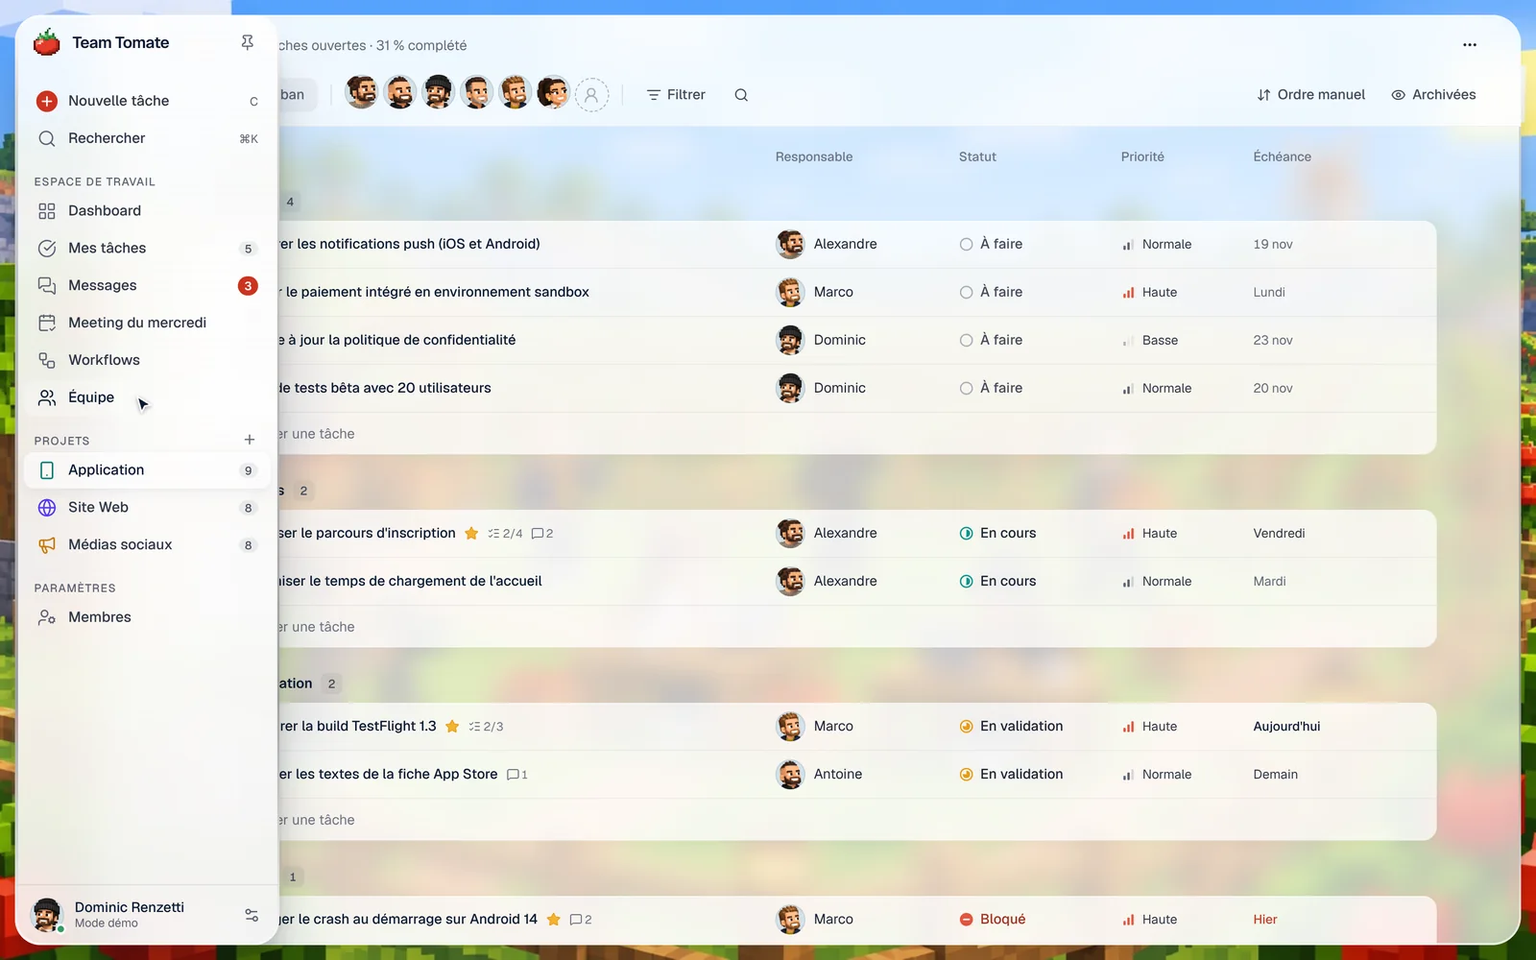
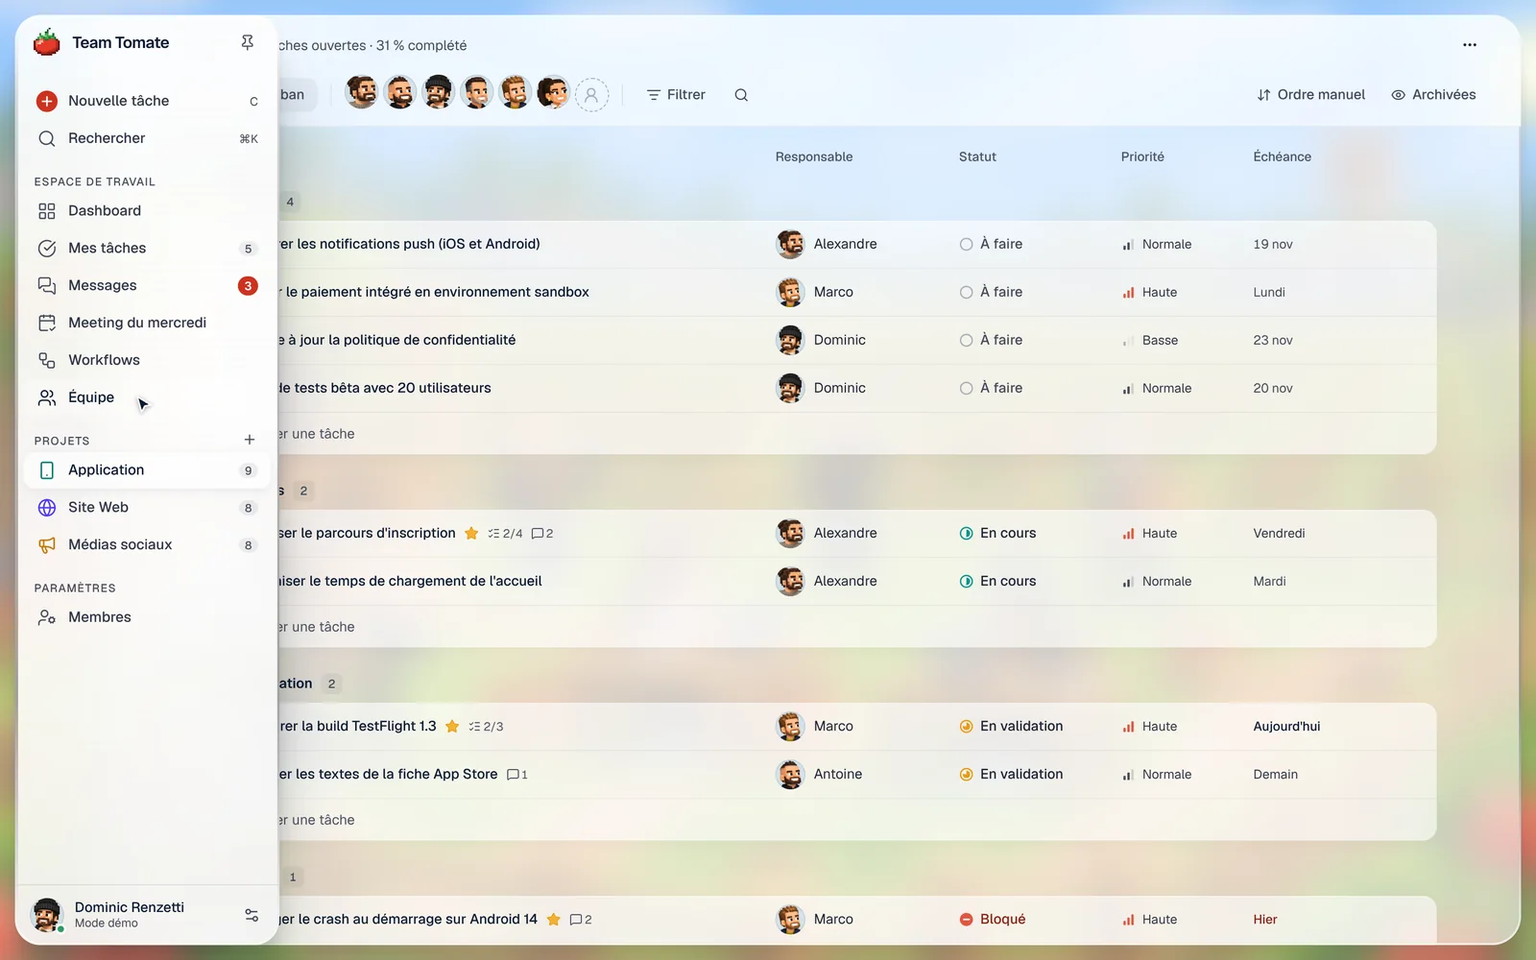
Docs: the frosted picture, the clear glass, ink on glass, measured contrast
The design document describes where the frost now is (on the picture: a blur
and a white veil that move together), the face shared by sheets and tiles, the
deeper inks inside the glass scope, the bento aligned on the navigation, and
the contrast as measured on the eight screens. The README follows, with the
42 scenarios. Screenshots retaken from the new build.

Claude-Session: https://claude.ai/code/session_01FogaosSJpqDW3pFqCh4GHN

Changed region(s): [[0.0, 0.0, 1.0, 1.0], [0.8438, 0.155, 0.9062, 0.217]]

diff --git a/docs/DESIGN.md b/docs/DESIGN.md
@@ -38,7 +38,7 @@ Au repos, la navigation est un rail d'icônes : le contenu a toute la place. On 
 
 ### Dashboard — « où en est-on ? »
 
-Un bento de tuiles de verre posées **directement sur l'image** : pas de feuille derrière elles, jamais de verre sur du verre. Chaque tuile est le verre (son anneau, son flou, son ombre), l'image se voit nette entre les tuiles, et le bento occupe toute la zone à côté de la navigation. La composition vient du tableau de bord de référence : la salutation sur toute la largeur, une tuile étroite et une large, une large et une étroite, puis une rangée de tuiles égales. Les colonnes suivent la largeur disponible, pas celle de l'écran.
+Un bento de tuiles de verre posées **directement sur l'image** : pas de feuille derrière elles, jamais de verre sur du verre. Chaque tuile est le verre (son anneau, sa face claire, son ombre) ; la photo, givrée, se voit entre les tuiles comme à travers elles. Le bento occupe toute la zone à côté de la navigation et s'aligne sur elle : même haut, même bas, et le même écart de 14 px que la fenêtre des autres écrans. Sur un écran haut, la première rangée prend la place qui reste (un graphique plus haut, davantage de mes tâches) ; sur un écran plus court, le bento défile sous une navigation qui ne bouge pas. La composition vient du tableau de bord de référence : la salutation sur toute la largeur, une tuile étroite et une large, une large et une étroite, puis une rangée de tuiles égales. Les colonnes suivent la largeur disponible, pas celle de l'écran.
 
 Le bento est régulier : les tuiles d'une rangée ont la même hauteur, les rangées se suivent sans trou, et aucune tuile n'est à moitié vide. Une tuile remplit la place qu'elle a avec son propre contenu : la liste des priorités donne sa hauteur à sa rangée, et les listes voisines montrent autant de lignes entières qu'il en tient (`.gw-fit`). Les lignes qui n'ont pas la place sont aussi hors du parcours clavier et des lecteurs d'écran.
 
@@ -167,7 +167,7 @@ Références : Linear pour la sobriété et les interactions, Things pour le cal
 
 ### Le parti pris
 
-Du verre sur un paysage, et un contenu très sobre posé dessus. L'idée vient du tableau de bord « verre ajustable » qui a servi de référence (une image en fond, des feuilles et des tuiles translucides, des réglages) ; la matière, elle, est le **verre poli** de Koloc Cloud : un anneau métallique, une face translucide, une ombre en huit couches. Les paysages sont à nous : **la ferme**, l'équipe au travail dans son champ de tomates, et **le yacht**, la même équipe au coucher du soleil, en blocs façon jeu de construction. Le contenu reste du texte, des filets et de l'espace. L'autre fantaisie est la tomate en pixel art : elle est le logo, elle fait un salto au chargement, elle mûrit à côté des priorités de la semaine, et il en pleut quelques-unes quand une tâche se termine.
+Du verre sur un paysage, et un contenu très sobre posé dessus. L'idée vient du tableau de bord « verre ajustable » qui a servi de référence (une image en fond, des feuilles et des tuiles translucides, des réglages) ; la matière, elle, est le **verre poli** de Koloc Cloud : un anneau métallique, une face translucide, une ombre en huit couches. Le verre est clair ; c'est la photo, derrière, qui est givrée. Les paysages sont à nous : **la ferme**, l'équipe au travail dans son champ de tomates, et **le yacht**, la même équipe au coucher du soleil, en blocs façon jeu de construction. Le contenu reste du texte, des filets et de l'espace. L'autre fantaisie est la tomate en pixel art : elle est le logo, elle fait un salto au chargement, elle mûrit à côté des priorités de la semaine, et il en pleut quelques-unes quand une tâche se termine.
 
 | Élément de marque | Où | Règle |
 |---|---|---|
@@ -181,20 +181,24 @@ Du verre sur un paysage, et un contenu très sobre posé dessus. L'idée vient d
 
 | Couche | Classe | Rôle |
 |---|---|---|
-| **Scène** | `GlassBackdrop` | La ferme (ou le yacht) en plein écran. Elle se voit nette à l'arrivée et tout autour des feuilles, et en formes douces à travers elles. |
-| **Feuilles** | `.gw-glass` | La navigation et, sur tous les écrans sauf le dashboard, la fenêtre principale, en verre poli : un **anneau** métallique de 2,5 px (un dégradé vertical, blanc en haut pour la lumière, foncé aux trois quarts pour l'épaisseur, blanc en bas pour le rebond, évidé en son centre par un masque), une **face** translucide à 72 % avec une très légère diagonale, un flou de 12 px, et une **ombre** en huit couches dont le flou double presque à chaque cran. Coins de 24 et 27 px. |
-| **Tuiles** | `.gw-panel` | Deux cas, pour ne jamais poser du verre sur du verre. **Sur le dashboard**, il n'y a pas de fenêtre : chaque tuile est le verre, posée sur l'image, avec le même anneau (2 px), son propre flou, l'ombre en huit couches et une face aussi pleine que l'étaient la fenêtre et la tuile réunies (87 % par défaut). **Dans une fenêtre** (messages, paramètres), une tuile n'est qu'une zone de la feuille : une face un peu plus pleine, une arête éclairée, ni anneau ni flou propre. Coins de 17 px. |
+| **Scène** | `GlassBackdrop`, `.gw-scene` | La ferme (ou le yacht) en plein écran. Nette tant que le préchargeur est là, et sur l'écran de connexion. **Givrée** dès que l'application arrive : floutée (18 px), un peu plus saturée, sous un voile blanc de 40 %. C'est elle qui porte le givre, pas le verre. |
+| **Feuilles** | `.gw-glass` | La navigation et, sur tous les écrans sauf le dashboard, la fenêtre principale, en verre poli : un **anneau** métallique de 2,5 px (un dégradé vertical, blanc en haut pour la lumière, foncé aux trois quarts pour l'épaisseur, blanc en bas pour le rebond, évidé en son centre par un masque), une **face** translucide à 58 % avec une très légère diagonale, sans flou propre (on voit à travers elle la même photo givrée qu'autour), et une **ombre** en huit couches dont le flou double presque à chaque cran. Coins de 24 et 27 px. |
+| **Tuiles** | `.gw-panel` | Deux cas, pour ne jamais poser du verre sur du verre. **Sur le dashboard**, il n'y a pas de fenêtre : chaque tuile est le verre, posée sur l'image, avec le même anneau (2 px), la même face que les feuilles (58 % par défaut) et l'ombre en huit couches. **Dans une fenêtre** (messages, paramètres), une tuile n'est qu'une zone de la feuille : une face un peu plus pleine, une arête éclairée, une ombre à peine marquée, pas d'anneau. Coins de 17 px. |
 | **Panneaux denses** | `.card-surface` | Tableaux, listes du meeting, colonnes du kanban : la même tuile, un peu plus remplie pour que le texte dense reste lisible. |
 | **En-tête de page** | `.glass` | Colle en haut de la fenêtre et floute ce qui défile dessous. |
 | **Sombre** | `.glass-dark` | Réservé à la barre du meeting en direct : le sombre veut dire « en direct ». |
 
-Tout dérive de cinq variables (`--gw-blur`, `--gw-opacity`, `--gw-saturation`, `--gw-edge`, `--gw-tint`). « Ajuster le verre » — sur le dashboard et en bas de la navigation — les règle : la scène (la ferme ou le yacht, les deux images de l'équipe), quatre préréglages (**Clair** 8 px / 12 %, **Givré** 22 px / 30 %, **Poli** 12 px / 72 %, le verre de Koloc Cloud et l'aspect par défaut, **Opaque** 32 px / 86 %) et des réglages fins repliés. Le curseur « reflet des bords » dose l'anneau. Choisir une scène remet le verre poli ; les préréglages et les curseurs ajustent à partir de là. Le choix est propre à chaque navigateur.
+Tout dérive de cinq variables (`--gw-blur`, `--gw-opacity`, `--gw-saturation`, `--gw-edge`, `--gw-tint`) et d'une sixième qui s'en déduit, `--gw-scene-veil`, le voile de la photo. « Ajuster le verre » — sur le dashboard et en bas de la navigation — les règle : la scène (la ferme ou le yacht, les deux images de l'équipe), quatre préréglages (**Clair** : givre 25 %, verre 34 % ; **Poli** : 45 % et 50 %, l'aspect par défaut ; **Givré** : 70 % et 64 % ; **Opaque** : 80 % et 86 %) et des réglages fins repliés : givre de la photo, opacité du verre, saturation, reflet des bords (il dose l'anneau), teinte. Choisir une scène lui donne le givre qui lui convient (le yacht, plus sombre que les champs, vient avec un verre à 56 %) ; les préréglages et les curseurs ajustent à partir de là. Le choix est propre à chaque navigateur.
 
-La recette vient de `ui/verre.css` de Koloc Cloud, portée sur ces variables. Là-bas le verre est posé sur une page grise et unie ; ici il est posé sur une image chargée, d'où une face un peu plus blanche et un flou réglé pour que l'image devienne des formes douces sans disparaître. Quand la navigation s'ouvre par-dessus la page, elle prend la variante dense de la même matière (90 %, flou de 22 px).
+**Givrer la photo est un seul geste** : le flou (jusqu'à 40 px) et le voile blanc montent ensemble (`sceneVeil`, dans `lib/glass.ts` : rien quand la photo est nette, 40 % au réglage par défaut, 50 % au plus). Le voile fait le travail que faisait un verre laiteux : il relève les parties sombres de la photo, et le verre posé dessus peut rester clair.
+
+La recette vient de `ui/verre.css` de Koloc Cloud, portée sur ces variables. Là-bas le verre est posé sur une page grise et unie ; ici il est posé sur une photo chargée. Plutôt que d'épaissir le verre jusqu'à le rendre laiteux, c'est la photo qu'on givre. Quand la navigation s'ouvre par-dessus la page, elle prend la variante dense de la même matière (90 %, flou de 22 px) : c'est, avec l'en-tête de page, la seule surface qui floute ce qui est derrière elle.
+
+**Encre sur verre.** Les gris ont été dessinés pour du papier. Sur un verre clair posé sur une photo, ils sont ramenés à un ton plus profond à l'intérieur de `.gw-scope` : `navy-500` et le texte atténué deviennent `navy-600`, `navy-400` s'en approche, et le rouge des retards comme le vert de « En ligne » passent à leur cran foncé. Les menus et les dialogues sont en papier, hors de cette portée : ils gardent les gris d'origine.
 
 L'en-tête de page garde toujours au moins 18 px de flou, même quand le reste du verre est clair : du texte défile dessous.
 
-Règle technique : deux surfaces floutées ne s'emboîtent jamais — un flou imbriqué est ignoré par Chrome, et un flou ne survit pas non plus à un parent en fondu. Le givre de la fenêtre est donc un calque à part, placé derrière la zone de défilement ; un écran demande à la coquille une fenêtre nue (`ui.setBareWindow`, ce que fait le dashboard) quand ses tuiles portent elles-mêmes le verre, et la zone de défilement va alors jusqu'aux bords de l'écran pour que les tuiles en sortent au lieu d'être coupées en plein vol. Autre règle : la face d'une surface est calculée sur la surface elle-même (une variable CSS est résolue là où elle est déclarée), et son opacité est une propriété enregistrée (`@property --verre-alpha`), ce qui lui permet de fondre d'une valeur à l'autre.
+Règle technique : deux surfaces qui floutent ce qui est derrière elles ne s'emboîtent jamais — un flou imbriqué est ignoré par Chrome, et un flou ne survit pas non plus à un parent en fondu. La feuille de la fenêtre est donc un calque à part, placé derrière la zone de défilement, pour que l'en-tête de page puisse flouter ce qui défile sous lui ; un écran demande à la coquille une fenêtre nue (`ui.setBareWindow`, ce que fait le dashboard) quand ses tuiles portent elles-mêmes le verre, et la zone de défilement va alors jusqu'aux bords de l'écran pour que les tuiles en sortent au lieu d'être coupées en plein vol. Autre règle : la face d'une surface est calculée sur la surface elle-même (une variable CSS est résolue là où elle est déclarée), et son opacité est une propriété enregistrée (`@property --verre-alpha`), ce qui lui permet de fondre d'une valeur à l'autre.
 
 ![Ajuster le verre](screenshots/reglage-verre.webp)
 
@@ -203,7 +207,7 @@ Règle technique : deux surfaces floutées ne s'emboîtent jamais — un flou im
 | Rôle | Jeton | Valeur | Usage |
 |---|---|---|---|
 | Encre | `navy-900` | `#0D1B33` | Texte |
-| Gris | `navy-300` à `navy-600` | — | Texte secondaire, icônes, bordures. Peu saturés : le texte secondaire est gris, pas bleu. |
+| Gris | `navy-300` à `navy-600` | — | Texte secondaire, icônes, bordures. Peu saturés : le texte secondaire est gris, pas bleu. Sur le verre, le texte secondaire est en `navy-600` (voir « Encre sur verre »). |
 | Papier | `--background` | `#F2F0EB` | Sous les écrans d'erreur, et là où le flou n'est pas pris en charge |
 | Teal | `teal-500` | `#12948C` | L'avancement : la courbe des tâches terminées et les barres des projets, sur le dashboard |
 | Tomate | `tomato-600` | `#CC3320` | Le **bouton principal**, partout ; le repère « Nouvelle tâche » de la navigation ; la pastille des priorités de la semaine |
@@ -246,7 +250,7 @@ Geist Sans. Chiffres tabulaires pour les compteurs et les dates. Une échelle co
 - **Défilement** : seule la fenêtre principale défile.
 - **Mouvement** : les tuiles se posent l'une après l'autre (elles montent de 12 px et deviennent nettes, 480 ms, 45 ms d'écart) ; la coche et l'étoile « rebondissent » une fois ; la carte glissée se soulève ; un message se pose dans le fil. Tout est neutralisé avec `prefers-reduced-motion`.
 - **Averse de tomates** (`app/tomato-rain.tsx`) : une tâche terminée fait tomber de huit à dix-huit tomates du logo, selon la largeur de l'écran. La largeur est découpée en tranches et chaque tomate tombe dans la sienne : jamais d'amas. Trois tailles (20, 28, 36 px), les petites plus lentes, une légère dérive et une rotation. Elles ne prennent aucun clic, et jusqu'à trois averses se superposent quand on enchaîne.
-- **Arrivée et préchargeur** : à l'ouverture, la scène est seule à l'écran, nette ; ni navigation ni fenêtre. Par-dessus, une petite plaque de verre givré, haut dans le ciel pour ne cacher personne : la tomate y tombe, s'écrase, fait un salto (elle tourne autour d'elle-même, pas autour de sa base), puis alterne petit saut et salto tant que ça charge ; les sauts sont rythmés comme un vrai lancer (vite au départ, lent en haut). Elle reste au moins 3,25 s — la chute et deux tours de saut et de salto : le temps de regarder l'image. Puis la plaque s'en va, l'image reste, la navigation apparaît en fondu (500 ms) et les tuiles se posent l'une après l'autre. Tout est mesuré en « pixels de tomate » (7 px, 6 px sur téléphone), en CSS pur.
+- **Arrivée et préchargeur** : à l'ouverture, la scène est seule à l'écran, nette ; ni navigation ni fenêtre. Par-dessus, une petite plaque de verre givré, haut dans le ciel pour ne cacher personne : la tomate y tombe, s'écrase, fait un salto (elle tourne autour d'elle-même, pas autour de sa base), puis alterne petit saut et salto tant que ça charge ; les sauts sont rythmés comme un vrai lancer (vite au départ, lent en haut). Elle reste au moins 3,25 s — la chute et deux tours de saut et de salto : le temps de regarder l'image. Puis la plaque s'en va, l'image reste et se givre (le flou et le voile arrivent en 900 ms), la navigation apparaît en fondu (500 ms) et les tuiles se posent l'une après l'autre. Tout est mesuré en « pixels de tomate » (7 px, 6 px sur téléphone), en CSS pur.
 
 ### Composants
 
@@ -283,4 +287,4 @@ Plusieurs briques viennent de composants que l'équipe a choisis comme référen
 
 ### Accessibilité
 
-Navigation complète au clavier, focus visible (anneau teal), libellés pour les boutons-icônes, zones tactiles confortables sur mobile, états jamais portés par la couleur seule (glyphe + libellé). Le bouton de menu annonce son état (`aria-expanded`). La navigation ne dépend pas du survol : au clavier, le rail se parcourt tel quel (chaque entrée garde son nom, et son infobulle au focus) et la tomate, qui est alors un bouton, l'épingle ouverte ; sur un écran tactile, toucher la tomate fait de même. Le fil des messages est une région `log`, la saisie et chaque bouton ont un libellé, et l'averse de tomates est ignorée des lecteurs d'écran. Avec « moins de mouvement », la carte de connexion ne s'incline plus et ses lumières s'éteignent, la pastille de navigation et les infobulles apparaissent sans ressort, la navigation s'ouvre sans glisser, et aucune tomate ne tombe. L'avancement, le graphique et la tomate qui mûrit ont un équivalent textuel. Sur du verre, le contraste dépend de l'image derrière ; il a été mesuré sur des captures, avec le verre par défaut. Sur la ferme, tout le texte dépasse le seuil AA : 13:1 et plus pour le texte principal, environ 7:1 pour le secondaire, et 4,7:1 au plus bas pour le gris le plus pâle (métadonnées, heures). Sur le yacht, plus sombre, il en va de même dans les tuiles (4,6:1 au plus bas) ; posé directement sur la fenêtre, le gris le plus pâle peut descendre vers 3,8:1 au-dessus des zones les plus sombres. Le préréglage « Clair » passe sous le seuil pour le texte secondaire. « Opaque » garantit le contraste en toutes circonstances.
+Navigation complète au clavier, focus visible (anneau teal), libellés pour les boutons-icônes, zones tactiles confortables sur mobile, états jamais portés par la couleur seule (glyphe + libellé). Le bouton de menu annonce son état (`aria-expanded`). La navigation ne dépend pas du survol : au clavier, le rail se parcourt tel quel (chaque entrée garde son nom, et son infobulle au focus) et la tomate, qui est alors un bouton, l'épingle ouverte ; sur un écran tactile, toucher la tomate fait de même. Le fil des messages est une région `log`, la saisie et chaque bouton ont un libellé, et l'averse de tomates est ignorée des lecteurs d'écran. Avec « moins de mouvement », la carte de connexion ne s'incline plus et ses lumières s'éteignent, la pastille de navigation et les infobulles apparaissent sans ressort, la navigation s'ouvre sans glisser, et aucune tomate ne tombe. L'avancement, le graphique et la tomate qui mûrit ont un équivalent textuel. Sur du verre, le contraste dépend de l'image derrière : il est donc mesuré, pas déduit des couleurs du thème. Chaque morceau de texte est comparé aux pixels réellement derrière lui, sur une capture où le texte est rendu transparent, et c'est le pire endroit du mot qui compte (le 5e centile de ses pixels), pas sa moyenne. Avec les réglages par défaut, sur les huit écrans (449 morceaux de texte par scène), tout dépasse le seuil AA de 4,5:1. Sur la ferme : 8:1 et plus pour le texte principal, 5,2:1 au plus bas pour le texte secondaire. Sur le yacht, plus sombre et servi avec un verre un peu plus plein : 7:1 et 4,9:1. Le blanc sur le bouton tomate est à 5,2:1. `e2e/readability.spec.ts` refait cette mesure à chaque passage des tests, sur quatre écrans et les deux scènes. Le préréglage « Clair » passe sous le seuil pour le texte secondaire : c'est un goût, pas le réglage de lecture. « Opaque » garantit le contraste en toutes circonstances.

diff --git a/README.md b/README.md
@@ -8,7 +8,7 @@ Le QG de l'équipe Prospero : nos projets, qui fait quoi, et le **meeting du mer
 
 | | |
 |---|---|
-| **Dashboard** | L'état des projets en 30 secondes, dans un bento de tuiles de verre posées directement sur l'image : ce qui vous attend et le prochain meeting, 4 chiffres pour l'équipe et le rythme des tâches créées et terminées, priorités de la semaine, activité récente, une tuile par projet. |
+| **Dashboard** | L'état des projets en 30 secondes, dans un bento de tuiles de verre posées directement sur l'image, de la même hauteur que la navigation : ce qui vous attend et le prochain meeting, 4 chiffres pour l'équipe et le rythme des tâches créées et terminées, priorités de la semaine, activité récente, une tuile par projet. |
 | **Projets** | Un tableau structuré (façon Monday) et un kanban (façon Linear) sur les mêmes données : édition en ligne, glisser-déposer, filtres, tri, archivage. |
 | **Tâches** | Responsable, statut, priorité, échéance, description, sous-tâches, commentaires et historique des changements. Une tâche terminée fait tomber une petite averse de tomates. |
 | **Mes tâches** | La vue du matin : mes priorités, en retard, en cours, à venir, complétées récemment. |
@@ -18,7 +18,7 @@ Le QG de l'équipe Prospero : nos projets, qui fait quoi, et le **meeting du mer
 | **Équipe** | Les partenaires, leur portrait en pixel art et la charge de chacun. |
 | **Paramètres** | Réservé aux administrateurs : tableau des membres, recherche, invitations, rôles, activation des comptes. |
 | **Navigation** | Un rail d'icônes en verre qui s'ouvre sous la souris et se referme quand elle repart ; une épingle (`⌘B`) le garde ouvert. Sur téléphone, un bouton de menu ouvre la navigation en plein écran. |
-| **Apparence** | Du verre poli (celui de Koloc Cloud) posé sur une image de l'équipe, et un contenu sobre par-dessus. À l'arrivée, on voit d'abord l'image avec la tomate qui saute, puis l'application apparaît dessus. Chacun règle sa matière avec « Ajuster le verre » : la scène (la ferme ou le yacht), le flou, l'opacité, la saturation, le reflet des bords et la teinte. |
+| **Apparence** | Du verre poli (celui de Koloc Cloud), clair, posé sur une image de l'équipe, et un contenu sobre par-dessus. À l'arrivée, on voit d'abord l'image, nette, avec la tomate qui saute ; puis l'image se givre (floue et pâlie) et l'application apparaît dessus. Chacun règle sa matière avec « Ajuster le verre » : la scène (la ferme ou le yacht), le givre de la photo, l'opacité du verre, la saturation, le reflet des bords et la teinte. |
 
 La semaine de travail va **du mercredi au mardi**. Les priorités de la semaine sont celles choisies au dernier meeting.
 
@@ -167,7 +167,7 @@ e2e/                        tests Playwright
 
 - `npm run lint`, `npm run typecheck`, `npm run build` : sans erreur ni avertissement.
 - `npm run db:test` : 139 assertions pgTAP (droits, RLS, déclencheurs, invitations, workflows, messagerie).
-- `npm run test:e2e` : 39 scénarios en mode démo — tableau, kanban, filtres et archivage, raccourcis et panneau de tâche, synchronisation entre onglets, meeting complet, workflows, réglages du verre, navigation (survol, épingle, téléphone), connexion, paramètres des membres, messagerie (écrans et règles), portraits, averse de tomates, arrivée sur la scène, bento régulier posé sur l'image (jamais de verre sur du verre).
+- `npm run test:e2e` : 42 scénarios en mode démo — tableau, kanban, filtres et archivage, raccourcis et panneau de tâche, synchronisation entre onglets, meeting complet, workflows, réglages du verre, navigation (survol, épingle, téléphone), connexion, paramètres des membres, messagerie (écrans et règles), portraits, averse de tomates, arrivée sur la scène, bento régulier posé sur l'image (jamais de verre sur du verre) et aligné sur la navigation, lisibilité du texte sur le verre (contraste mesuré sur les deux scènes).
 - Contre une instance Supabase locale : connexion par mot de passe et par lien magique, persistance en base, propagation en temps réel entre deux navigateurs (statut, commentaire, glisser-déposer, meeting en direct, canevas de workflow), présence, compte non invité bloqué puis activé depuis les paramètres, déconnexion ; messagerie à trois comptes (livraison en direct, conversation directe invisible pour un tiers dans l'interface, le temps réel et l'API, lecture persistée, suppression propagée).
 
 ## Limites connues du MVP
